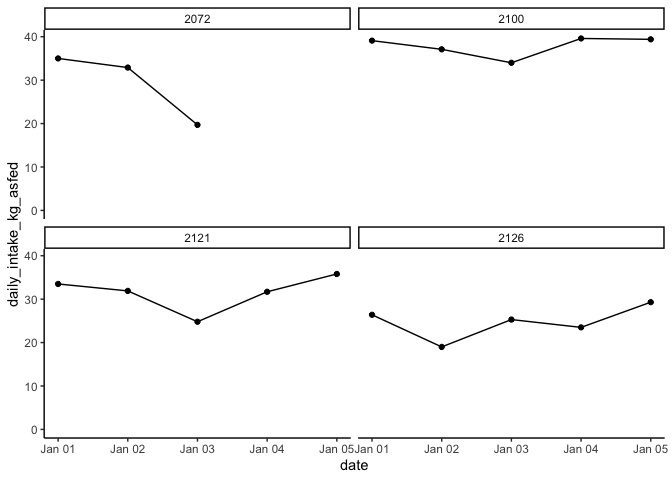
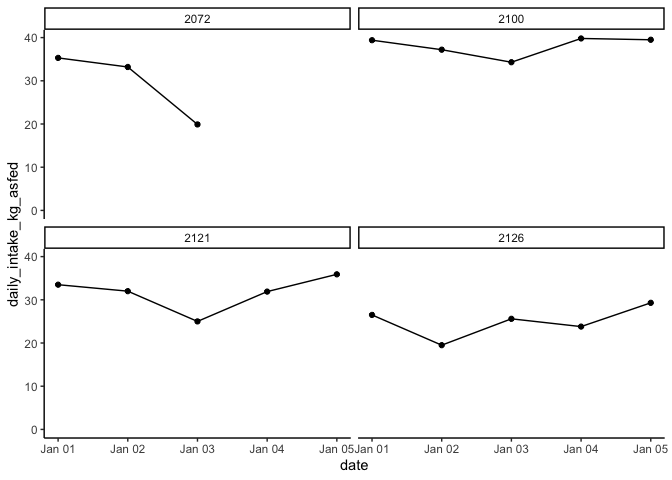
fix README

diff --git a/README.md b/README.md
@@ -3,7 +3,7 @@
 
 # IntakeInspectR
 
-# <img src="man/figures/logo.png" data-align="center" alt=""
+<img src="man/figures/logo.png" data-align="center" alt=""
 height="139" />
 
 <!-- badges: start -->
@@ -259,20 +259,20 @@ list_cleaned$df_cleaned %>% glimpse()
 #> $ check_prev_vs_next                 <chr> "ok", "ok", "ok", "ok", "ok", "ok",…
 #> $ classify_errors                    <chr> "ok", "ok", "ok", "ok", "ok", "ok",…
 #> $ check_end_weight_kgs               <chr> "keep: feed removed: minor (< zero_…
-#> $ corrected_end_weight_kg_bybin      <dbl> 35.2, 29.4, 22.4, 4.1, 3.1, 31.7, 2…
-#> $ category_end_weight_kg             <chr> "keep", "keep", "replace", "keep", …
+#> $ corrected_end_weight_kg_bybin      <dbl> 35.2, 29.4, 22.3, 4.1, 3.1, 31.7, 2…
+#> $ category_end_weight_kg             <chr> "keep", "keep", "keep", "keep", "ke…
 #> $ prev_step3_check                   <chr> NA, NA, NA, NA, NA, NA, NA, NA, NA,…
 #> $ check_start_weight_kgs             <chr> "keep", "keep", "keep", "keep", "ke…
 #> $ corrected_start_weight_kg_bybin    <dbl> 35.7, 31.0, 24.0, 5.5, 3.3, 32.4, 2…
-#> $ corrected_intake_bybin             <dbl> 0.5, 1.6, 1.6, 1.4, 0.2, 0.7, 0.5, …
-#> $ is_corrected_intake_bybin          <lgl> FALSE, FALSE, TRUE, FALSE, FALSE, F…
+#> $ corrected_intake_bybin             <dbl> 0.5, 1.6, 1.7, 1.4, 0.2, 0.7, 0.5, …
+#> $ is_corrected_intake_bybin          <lgl> FALSE, FALSE, FALSE, FALSE, FALSE, …
 #> $ nextStartTime                      <dttm> 2022-01-01 00:05:15, 2022-01-01 00…
 #> $ is_end_time_overlap_error          <lgl> FALSE, FALSE, FALSE, FALSE, FALSE, …
 #> $ corrected_end_time                 <dttm> 2022-01-01 00:05:08, 2022-01-01 00…
 #> $ corrected_duration_sec_diff        <drtn> 118 secs, 309 secs, 470 secs, 372 …
 #> $ corrected_duration_sec             <dbl> 118, 309, 470, 372, 46, 306, 206, 3…
 #> $ corrected_intake_bybin_startweight <dbl> 0.5, 1.6, 1.7, 1.4, 0.2, 0.7, 0.5, …
-#> $ corrected_intake_bybin_endweight   <dbl> 0.5, 1.6, 1.6, 1.4, 0.2, 0.7, 0.5, …
+#> $ corrected_intake_bybin_endweight   <dbl> 0.5, 1.6, 1.7, 1.4, 0.2, 0.7, 0.5, …
 ```
 
 ## 2b. By Bin - Visualise
@@ -440,7 +440,7 @@ by_animal_list_out <-
     log = FALSE,
     verbose = FALSE
   )
-#> [1] "only 166 sets, so all sets will be tried"
+#> [1] "only 167 sets, so all sets will be tried"
 #> [1] "only 138 sets, so all sets will be tried"
 #> [1] "only 132 sets, so all sets will be tried"
 #> [1] "only 129 sets, so all sets will be tried"
@@ -448,7 +448,7 @@ by_animal_list_out <-
 #> The first warning was:
 #> ℹ In argument: `fitted = purrr::imap(data, ~.f_outlier_iterate(.x, .y))`.
 #> Caused by warning in `lqs.default()`:
-#> ! only 166 sets, so all sets will be tried
+#> ! only 167 sets, so all sets will be tried
 #> ℹ Run `dplyr::last_dplyr_warnings()` to see the 3 remaining warnings.
 ```
 
@@ -497,19 +497,19 @@ merged_by_animal %>% glimpse()
 #> $ corrected_duration_sec             <dbl> 118, 243, 208, 299, 87, 315, 179, 3…
 #> $ corrected_intake_bybin_startweight <dbl> 0.5, 1.2, 0.7, 1.0, 0.2, 0.7, 0.5, …
 #> $ corrected_intake_bybin_endweight   <dbl> 0.5, 1.2, 0.7, 1.0, 0.2, 0.7, 0.5, …
-#> $ .fitted                            <dbl> 0.3930550, 0.8094268, 0.6928427, 0.…
-#> $ .resid                             <dbl> 0.106945009, 0.390573196, 0.0071573…
+#> $ .fitted                            <dbl> 0.3940673, 0.8115115, 0.6946271, 0.…
+#> $ .resid                             <dbl> 0.105932709, 0.388488545, 0.0053729…
 #> $ manual_outlier_classification      <chr> "Not Outlier", "Not Outlier", "Not …
 #> $ is_manual_outlier                  <lgl> FALSE, FALSE, FALSE, FALSE, FALSE, …
 #> $ instant_rate_of_intake_kg_min      <dbl> 0.25423729, 0.29629630, 0.20192308,…
 #> $ is_outlier                         <lgl> FALSE, FALSE, FALSE, FALSE, FALSE, …
-#> $ predicted_y_bisector               <dbl> 0.3975879, 0.8187616, 0.7008330, 1.…
-#> $ residual_y_bisector                <dbl> 0.1024120682, 0.3812384116, -0.0008…
+#> $ predicted_y_bisector               <dbl> 0.3971793, 0.8179200, 0.7001126, 1.…
+#> $ residual_y_bisector                <dbl> 0.102820726, 0.382079969, -0.000112…
 #> $ outlier_pos_neg                    <chr> NA, NA, NA, NA, NA, NA, NA, NA, "ne…
 #> $ new_y                              <dbl> 0.5, 1.2, 0.7, 1.0, 0.2, 0.7, 0.5, …
 #> $ new_x                              <dbl> 118, 243, 208, 299, 87, 315, 179, 3…
 #> $ intercept                          <dbl> 0, 0, 0, 0, 0, 0, 0, 0, 0, 0, 0, 0,…
-#> $ slope                              <dbl> 0.003369389, 0.003369389, 0.0033693…
+#> $ slope                              <dbl> 0.003365926, 0.003365926, 0.0033659…
 #> $ outlier_classification             <chr> "Not Outlier", "Not Outlier", "Not …
 #> $ final_intake_kg                    <dbl> 0.5, 1.2, 0.7, 1.0, 0.2, 0.7, 0.5, …
 #> $ final_duration_sec                 <dbl> 118, 243, 208, 299, 87, 315, 179, 3…
@@ -553,14 +553,14 @@ merged_by_animal %>%
 #> # A tibble: 133 × 6
 #>    animal_id neg_intake not_error   pos   neg total_outliers
 #>        <dbl>      <int>     <int> <int> <int>          <int>
-#>  1      2052         23       381    NA     5             28
-#>  2      2128          2       310    NA    18             20
+#>  1      2052         23       382    NA     4             27
+#>  2      2128          2       311    NA    17             19
 #>  3      2090         13       426    NA     5             18
 #>  4      2040         10       807     2     3             15
 #>  5      2037         10       401     2     2             14
 #>  6      2007         12       645     1    NA             13
-#>  7      2126          1       306    NA    12             13
-#>  8      2121         NA       281    NA    12             12
+#>  7      2121         NA       281    NA    12             12
+#>  8      2126          1       307    NA    11             12
 #>  9      2107          6       321     5    NA             11
 #> 10      2091          9       209     1    NA             10
 #> # ℹ 123 more rows
@@ -780,16 +780,16 @@ daily_intakes
 #> # Groups:   animal_id [133]
 #>    animal_id date       daily_intake_kg_asfed
 #>        <dbl> <date>                     <dbl>
-#>  1      2000 2022-01-01                  41.8
-#>  2      2000 2022-01-02                  51.4
-#>  3      2000 2022-01-03                  50.3
-#>  4      2000 2022-01-04                  53  
-#>  5      2000 2022-01-05                  49  
-#>  6      2001 2022-01-01                  53.9
-#>  7      2001 2022-01-02                  48.8
-#>  8      2001 2022-01-03                  58.2
-#>  9      2001 2022-01-04                  54.6
-#> 10      2001 2022-01-05                  46.5
+#>  1      2000 2022-01-01                  41.9
+#>  2      2000 2022-01-02                  51.6
+#>  3      2000 2022-01-03                  50.7
+#>  4      2000 2022-01-04                  53.2
+#>  5      2000 2022-01-05                  49.2
+#>  6      2001 2022-01-01                  54  
+#>  7      2001 2022-01-02                  49  
+#>  8      2001 2022-01-03                  58.4
+#>  9      2001 2022-01-04                  54.8
+#> 10      2001 2022-01-05                  46.7
 #> # ℹ 649 more rows
 ```
 
@@ -818,16 +818,16 @@ daily_intakes %>%
 #> # Groups:   animal_id [5]
 #>    animal_id date       daily_intake_kg_asfed
 #>        <dbl> <date>                     <dbl>
-#>  1      2018 2022-01-04                  13.1
-#>  2      2126 2022-01-02                  19  
-#>  3      2072 2022-01-03                  19.7
-#>  4      2128 2022-01-02                  21.1
-#>  5      2128 2022-01-01                  21.3
-#>  6      2128 2022-01-04                  21.4
-#>  7      2128 2022-01-05                  21.7
-#>  8      2128 2022-01-03                  22.2
-#>  9      2126 2022-01-04                  23.5
-#> 10      2014 2022-01-02                  24.0
+#>  1      2018 2022-01-04                  13.2
+#>  2      2126 2022-01-02                  19.5
+#>  3      2072 2022-01-03                  19.9
+#>  4      2128 2022-01-04                  21.5
+#>  5      2128 2022-01-01                  21.5
+#>  6      2128 2022-01-05                  21.8
+#>  7      2128 2022-01-02                  21.9
+#>  8      2128 2022-01-03                  22.3
+#>  9      2126 2022-01-04                  23.8
+#> 10      2015 2022-01-05                  24.1
 ```
 
 ``` r
